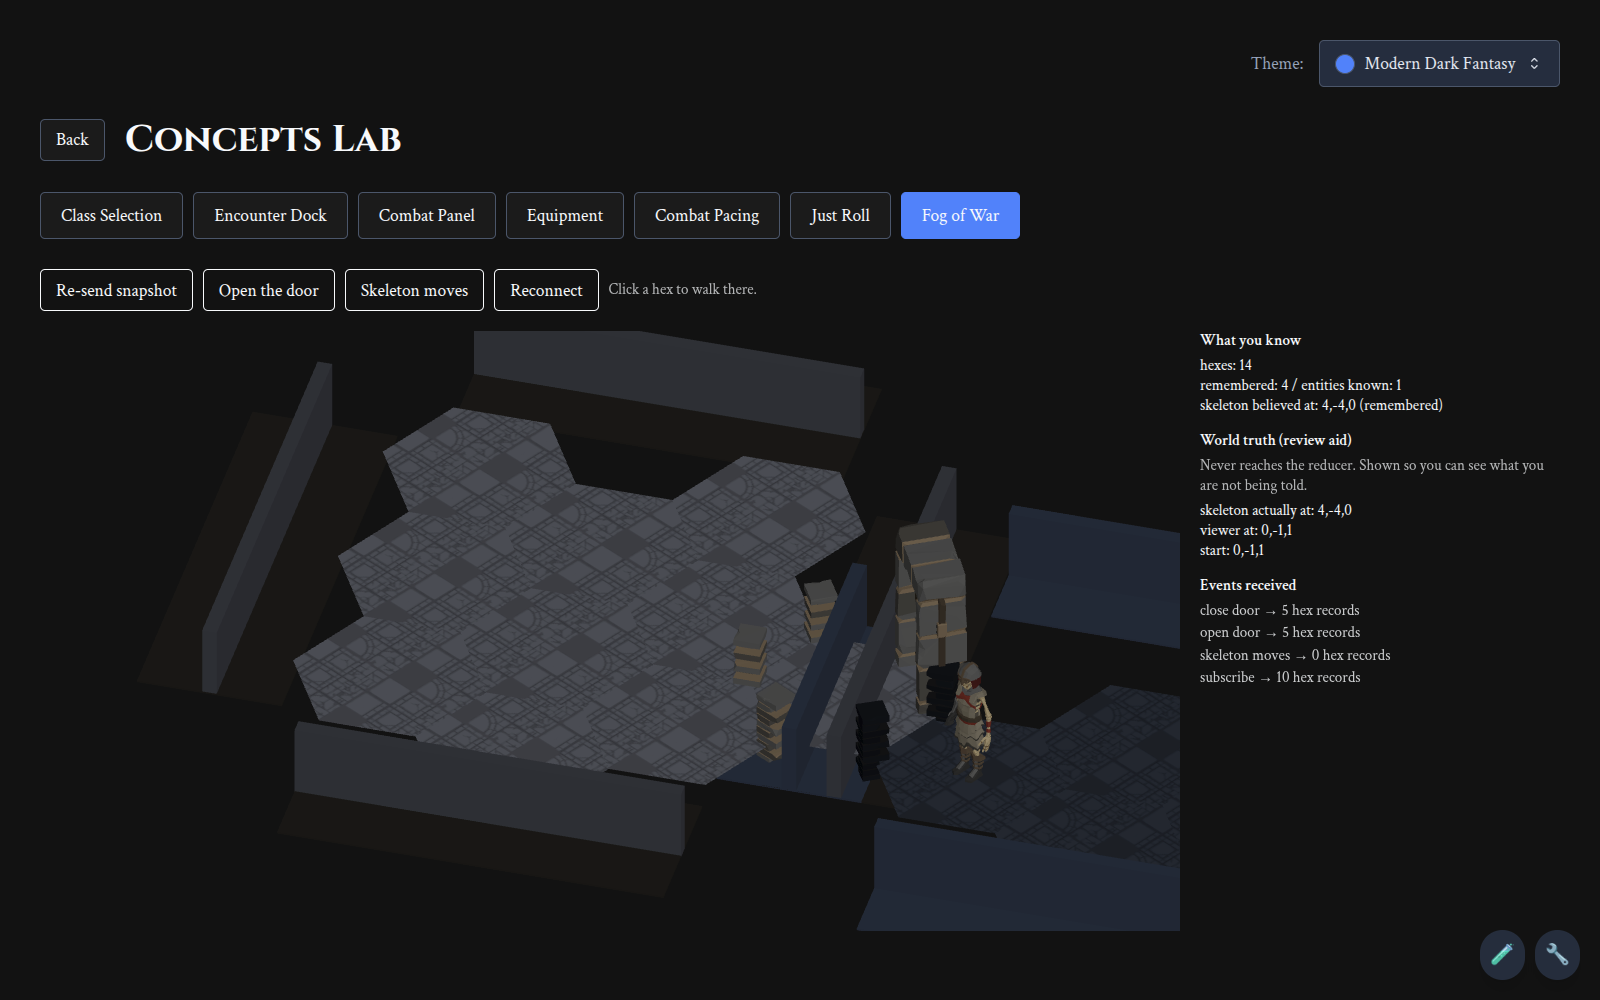
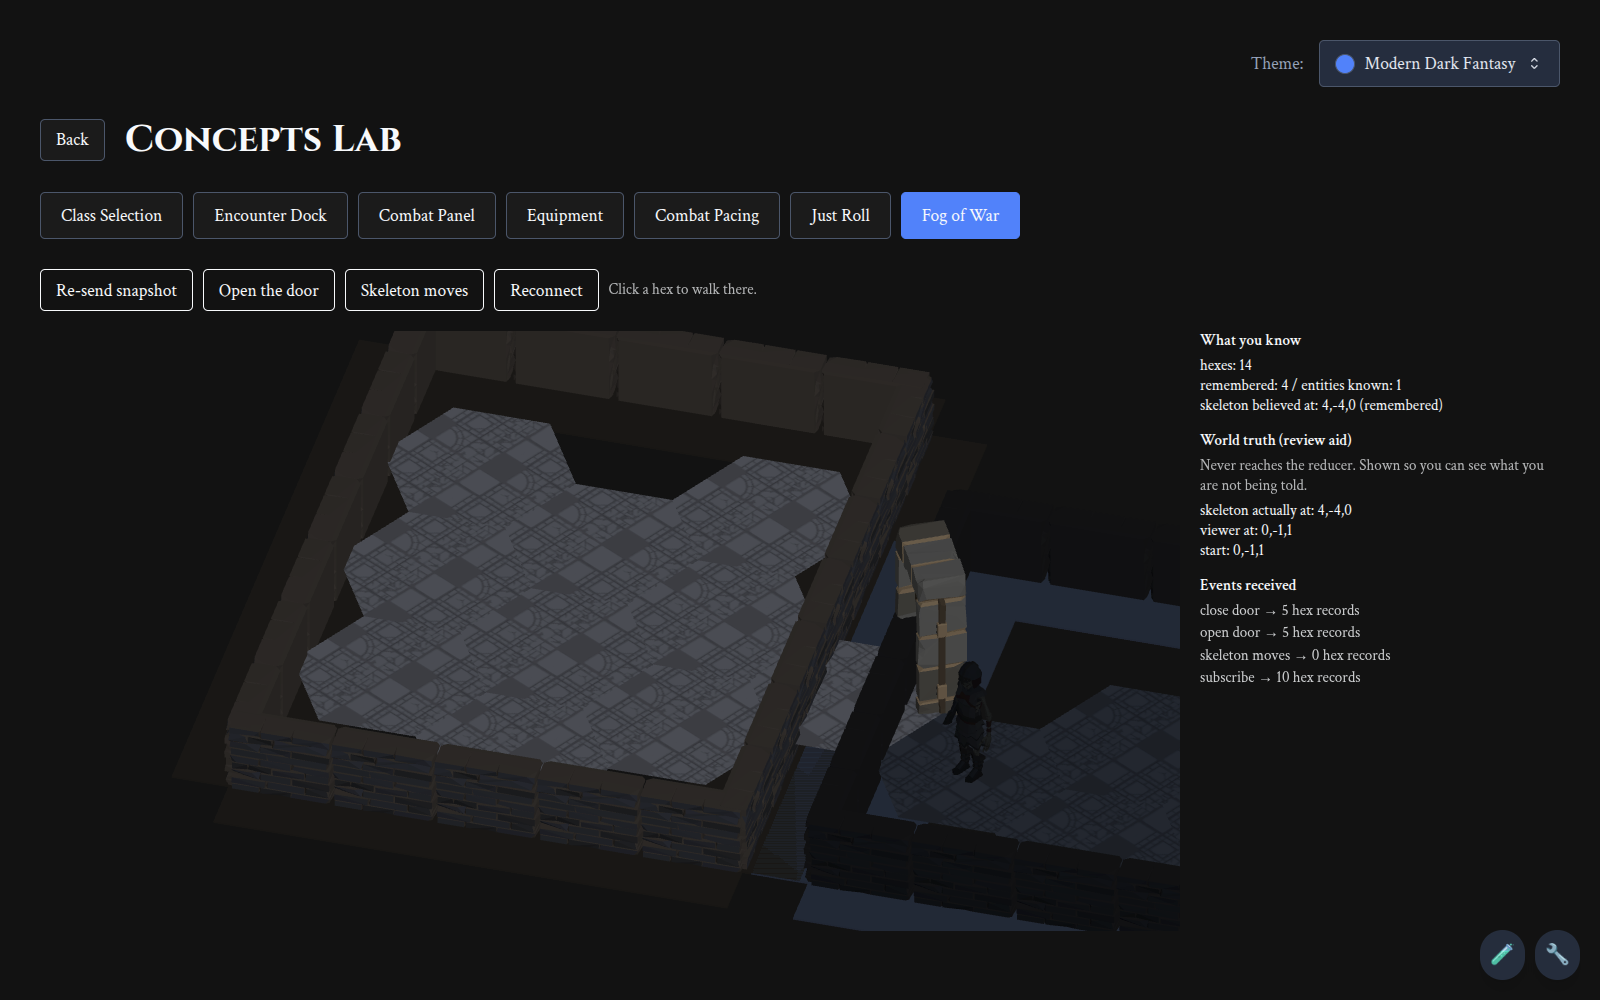
fix(fog): address review, merge #614, re-capture evidence
Three findings from review, all valid.

1. rememberedWallHexKeys was keyed by the RECORD's hex, but the renderer looks
   wall memory up by the wall's own `from` (sceneKnowledge.rememberedSegment,
   ShadedHexWall). They agree for every edge the authority emits, so nothing
   misbehaved — but an edge authored against a neighbour would have read as
   visible and stayed clickable. Now keyed by the edge. Test added with an
   edge deliberately authored against a neighbour.

2. The events.ts header claimed a placement always resolves "in the same
   message". Wrong, and contradicted by our own test: the entity vocabulary
   outlives current disclosure, because a remembered placement still needs
   something to render as. Comment corrected to say the viewer's known set.

3. fogReducer allocated new Maps and returned a new object even for an empty
   event. A hidden mutation produces exactly that event, so "changes nothing"
   was true by value but not by identity — every consumer re-rendered for a
   change they were never told about. Early-returns state now, and the hidden-
   mutation test asserts identity rather than deep equality.

Merges main for #614, so remembered entities finally render frozen and
crypt-tinted. Evidence re-captured: 03 now shows a dark, inert skeleton
standing in a remembered room instead of a brightly lit one, which is what
that frame was always meant to show. Main's newer wall pieces (#607/#608)
also land, so the rooms read properly.
[…]

Changed region(s): [[0.4062, 0.372, 0.75, 0.93], [0.125, 0.31, 0.2812, 0.775]]

diff --git a/src/concepts/fog-of-war/adapter.test.ts b/src/concepts/fog-of-war/adapter.test.ts
@@ -103,6 +103,22 @@ describe('fog adapter', () => {
     expect(toHexGridProps(resighted).entities).toEqual([]);
   });
 
+  it('marks a remembered wall by the edge it belongs to, not the record', () => {
+    // The renderer looks wall memory up by `wall.from`. Keying by the record's
+    // own position happens to agree for every edge the authority emits, but an
+    // edge authored against a neighbour would then read as visible and stay
+    // clickable.
+    const knowledge = fogReducer(emptyKnowledge(), {
+      hexes: [record(0, 0, 'REMEMBERED', [], [solidEdge(at(1, 0), at(2, 0))])],
+      entities: [],
+    });
+
+    const props = toHexGridProps(knowledge);
+
+    expect(props.rememberedWallHexKeys.has('1,0,-1')).toBe(true);
+    expect(props.rememberedWallHexKeys.has('0,0,0')).toBe(false);
+  });
+
   it('deduplicates a wall carried by both hexes it separates', () => {
     // Records are self-contained, so the shared edge arrives twice. Neither
     // record knows about the other; the adapter collapses them.

diff --git a/src/concepts/fog-of-war/adapter.ts b/src/concepts/fog-of-war/adapter.ts
@@ -87,7 +87,13 @@ export function toHexGridProps(knowledge: FogKnowledge): FogHexGridInputs {
       walls.set(wallKey(proto), proto);
       // HexGrid remembers walls by hex key, not by wall id — a wall reads as
       // memory when the hex carrying it is memory.
-      if (remembered) rememberedWallHexKeys.add(key);
+      //
+      // Key by the EDGE's own `from`, which is what the renderer looks up
+      // (sceneKnowledge.rememberedSegment, ShadedHexWall). It equals the
+      // record's position for every edge the authority emits, but keying by
+      // the record would silently mislabel any edge authored against a
+      // neighbour — remembered walls would read as visible and stay clickable.
+      if (remembered) rememberedWallHexKeys.add(hexKey(edge.from));
     }
 
     for (const placement of record.contents) {

diff --git a/src/concepts/fog-of-war/events.ts b/src/concepts/fog-of-war/events.ts
@@ -108,9 +108,11 @@ export interface FogEntity {
 /**
  * One viewer's slice of knowledge.
  *
- * Hexes say **where**; entities say **what**. They are delivered together so
- * they cannot disagree — a placement can always resolve against an entity in
- * the same message, or it fails closed.
+ * Hexes say **where**; entities say **what**. A placement resolves against the
+ * viewer's known entity set — entities disclosed in this message OR in an
+ * earlier one, since the entity vocabulary outlives current disclosure and a
+ * remembered placement still needs something to render as. A placement that
+ * resolves against nothing is dropped: fail closed.
  */
 export interface HexKnowledgeChanged {
   hexes: HexRecord[];

diff --git a/src/concepts/fog-of-war/reducer.ts b/src/concepts/fog-of-war/reducer.ts
@@ -35,6 +35,12 @@ export function fogReducer(
   state: FogKnowledge,
   event: HexKnowledgeChanged
 ): FogKnowledge {
+  // An event with nothing in it must change nothing — including identity.
+  // "Preserve stale memory" is the absence of a message, and a hidden mutation
+  // produces exactly this event; allocating fresh Maps for it would churn
+  // referential equality and re-render every consumer for no reason.
+  if (!event.hexes?.length && !event.entities?.length) return state;
+
   const entities = new Map(state.entities);
   for (const entity of event.entities ?? []) {
     entities.set(entity.entityId, entity);

diff --git a/src/concepts/fog-of-war/reducer.test.ts b/src/concepts/fog-of-war/reducer.test.ts
@@ -100,6 +100,10 @@ describe('fog reducer', () => {
     const after = fogReducer(before, { hexes: [], entities: [] });
 
     expect(after.hexes.get('1,0,-1')).toEqual(before.hexes.get('1,0,-1'));
+    // Identity, not just equality: an empty event must not churn referential
+    // equality, or every consumer re-renders for a change they were never
+    // told about.
+    expect(after).toBe(before);
   });
 
   it('freezes the facing that was observed, not one seen later', () => {
